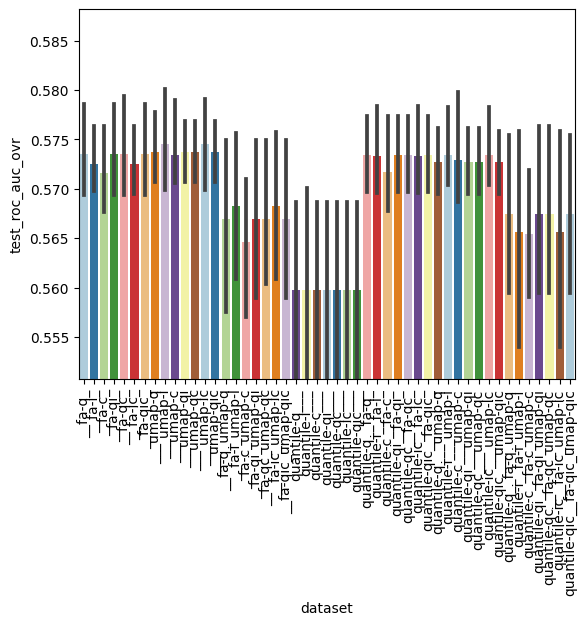
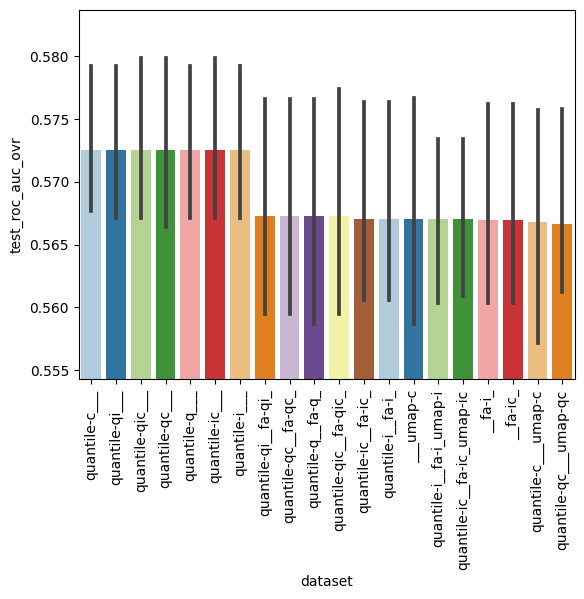
prev work

diff --git a/feature_eng.py b/feature_eng.py
@@ -200,47 +200,63 @@ if __name__=="__main__":
     results = []    
     opts = [False, True]
     qic_opts = ['q', 'i', 'c', 'qi', 'qc', 'ic', 'qic']
-    for quantile_id in opts:
-        for umap_id in opts:
-            for factor_id in opts:
-                for kmeans_id in [False]:
-                    for qic_id in qic_opts:
-                        for random_state in range(4): # cv
-                            # train test split
-                            train, test = tsplit(df, test_size, random_state, scale=False)
-                            # label
-                            quantile_label = 'quantile-'+qic_id
-                            kmeans_label = 'kmeans-'+qic_id
-                            factor_label = 'fa-'+qic_id
-                            umap_label = 'umap-'+qic_id
-                            all_labels = [quantile_label*quantile_id, kmeans_label*kmeans_id, factor_label*factor_id, umap_label*umap_id]
-                            all_label = '_'.join(all_labels)
-                            check_steps = 0
-                            # transform
-                            if quantile_id:
-                                train, test = quantile_trans(train, test, is_train=True, qic=qic_id)
-                                check_steps += 1
-                            # kmeans cluster
-                            if kmeans_id:
-                                train, test = cluster_feats(train, test, qic=qic_id, n_comp=20)
-                                check_steps += 1
-                            # factor analysis
-                            if factor_id:
-                                train, test = factor_analysis(train, test, n_comp=20, qic=qic_id, is_train=True)
-                                check_steps += 1
-                            # umap analysis
-                            if umap_id:
-                                train, test = umap_analysis(train, test, n_comp=20, qic=qic_id, is_train=True)
-                                check_steps += 1
-                            # rforest train
-                            if check_steps>0:
-                                res = rforest_train(train, test)
-                                print(all_label)
-                                res['dataset'] = all_label
-                                results.append(res)
+
+    save_fname = dir_name + f'feature_eng_umap_{data_name}.csv'
+    ### testing best umap setting
+    for qic_id in qic_opts:
+        for n in range(2, 20, 3): # number of components
+            for random_state in range(4): # cv
+                # train test split
+                train, test = tsplit(df, test_size, random_state, scale=False)
+                # umap analysis
+                train, test = umap_analysis(train, test, n_comp=n, qic=qic_id, is_train=True)
+                # rforest train
+                res = rforest_train(train, test)
+                res['dataset'] = qic_id+'_'+str(n)
+                results.append(res)
+
+    # save_fname = dir_name + f'feature_eng_{data_name}.csv'
+    ### testing various combinations of feats
+    # for quantile_id in opts:
+    #     for umap_id in opts:
+    #         for factor_id in opts:
+    #             for kmeans_id in [False]:
+    #                 for qic_id in qic_opts:
+    #                     for random_state in range(4): # cv
+    #                         # train test split
+    #                         train, test = tsplit(df, test_size, random_state, scale=False)
+    #                         # label
+    #                         quantile_label = 'quantile-'+qic_id
+    #                         kmeans_label = 'kmeans-'+qic_id
+    #                         factor_label = 'fa-'+qic_id
+    #                         umap_label = 'umap-'+qic_id
+    #                         all_labels = [quantile_label*quantile_id, kmeans_label*kmeans_id, factor_label*factor_id, umap_label*umap_id]
+    #                         all_label = '_'.join(all_labels)
+    #                         check_steps = 0
+    #                         # transform
+    #                         if quantile_id:
+    #                             train, test = quantile_trans(train, test, is_train=True, qic=qic_id)
+    #                             check_steps += 1
+    #                         # kmeans cluster
+    #                         if kmeans_id:
+    #                             train, test = cluster_feats(train, test, qic=qic_id, n_comp=20)
+    #                             check_steps += 1
+    #                         # factor analysis
+    #                         if factor_id:
+    #                             train, test = factor_analysis(train, test, n_comp=20, qic=qic_id, is_train=True)
+    #                             check_steps += 1
+    #                         # umap analysis
+    #                         if umap_id:
+    #                             train, test = umap_analysis(train, test, n_comp=20, qic=qic_id, is_train=True)
+    #                             check_steps += 1
+    #                         # rforest train
+    #                         if check_steps>0:
+    #                             res = rforest_train(train, test)
+    #                             print(all_label)
+    #                             res['dataset'] = all_label
+    #                             results.append(res)
     df_res = pd.concat(results)
     print(df_res)
     # save
-    fname = dir_name + f'feature_eng_{data_name}.csv'
-    print(fname)
-    df_res.to_csv(fname, index=None)
+    print(save_fname)
+    df_res.to_csv(save_fname, index=None)

diff --git a/visualise.py b/visualise.py
@@ -114,7 +114,9 @@ if __name__=="__main__":
         f_ls = os.listdir(fpath)
         c = 'test_roc_auc_ovr'
         for f in f_ls:
+            # plt.subplots(figsize=(30,10))
             df_tmp = pd.read_csv(os.path.join(fpath,f))
+            df_tmp = sort_compare(df_tmp, comp_var='dataset', criteria='roc_auc_ovr', sort_top=20)
             sns.barplot(x=df_tmp['dataset'], y=df_tmp[c], palette="Paired")
             plt.xticks(rotation=90)
             # axes[i].axhline(np.mean(df[c]), color='k', clip_on=False)

diff --git a/clean_questions.py b/clean_questions.py
@@ -318,6 +318,9 @@ def basic_classify(df, classifier='dtree', test_size=0.5, random_state=10, plot_
     elif classifier == 'rforest':
         from sklearn.ensemble import RandomForestClassifier
         clf = RandomForestClassifier(max_depth=5).fit(X_train, y_train)
+    elif classifier == 'lgb':
+        import lightgbm as lgb
+        clf = lgb.LGBMClassifier(n_jobs=-1)
     # predict test set
     y_test_predicted = clf.predict(X_test)
     
